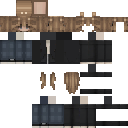
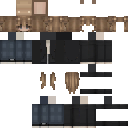
Resample back, head sides and head top from the new close-ups; ears on back corners
Claude-Session: https://claude.ai/code/session_01E8KVnok6Fx7faRrVpDBB9K

diff --git a/minecraft-skin/make_skin.py b/minecraft-skin/make_skin.py
@@ -4,6 +4,8 @@
 from PIL import Image
 HI = Image.open("ref/front_close.png").convert("RGB"); KH = HI.width/924      # coords below are in a 924px-wide frame
 LO = Image.open("reference.png").convert("RGB")
+BK = Image.open("ref/back_close.png").convert("RGB")                          # sharp close-up of the back view
+QH = Image.open("ref/head_quarter.png").convert("RGB")                        # sharp close-up of the head, 3/4 from above
 GAIN = 1.15
 
 def bright(c): return tuple(min(255, int(v*GAIN+0.5)) for v in c)
@@ -18,17 +20,26 @@ def cell(img, x0, y0, x1, y1):                      # median colour of the inner
 def grid(img, k, x0, y0, x1, y1, w, h):             # sample a w*h texel grid from a rectangle
     return {(i, j): cell(img, k*(x0+i*(x1-x0)/w), k*(y0+j*(y1-y0)/h), k*(x0+(i+1)*(x1-x0)/w), k*(y0+(j+1)*(y1-y0)/h))
             for j in range(h) for i in range(w)}
-def quad(ox, oy, z, tl, tr, br, bl, w, h):          # sample a perspective quad from the overview
-    out = {}
+def quad(img, tl, tr, br, bl, w, h, r=5):           # sample a perspective quad (924px-frame coords)
+    k = img.width/924; out = {}
     for j in range(h):
         for i in range(w):
             a, b = (i+.5)/w, (j+.5)/h
             X = (1-a)*(1-b)*tl[0] + a*(1-b)*tr[0] + a*b*br[0] + (1-a)*b*bl[0]
             Y = (1-a)*(1-b)*tl[1] + a*(1-b)*tr[1] + a*b*br[1] + (1-a)*b*bl[1]
-            out[i, j] = cell(LO, ox+X/z-2, oy+Y/z-2, ox+X/z+2, oy+Y/z+2)
+            out[i, j] = cell(img, k*(X-r), k*(Y-r), k*(X+r), k*(Y+r))
     return out
 def front(x0, y0, x1, y1, w, h): return grid(HI, KH, x0, y0, x1, y1, w, h)
-def back(x0, y0, x1, y1, w, h):  return grid(LO, 0.25, x0+2800, y0+3760, x1+2800, y1+3760, w, h)   # crop origin (700,940), zoom 4
+def back(x0, y0, x1, y1, w, h):  return grid(BK, BK.width/924, x0, y0, x1, y1, w, h)
+def fill_rows(g):                                   # replace non-hair / shadow-gap texels by the nearest hair texel in the row
+    out = {}
+    ok = lambda c: is_hair(c) and c[0] >= 72
+    w = max(i for i, _ in g)+1
+    for (i, j), c in g.items():
+        if ok(c): out[i, j] = c; continue
+        near = sorted((abs(i-ii), ii) for ii in range(w) if ok(g[ii, j]))
+        out[i, j] = g[near[0][1], j] if near else (121, 95, 72)
+    return out
 def chunky(g, n=2):                                 # 8x8 blocks -> 16x16 texels
     return {(i*n+a, j*n+b): c for (i, j), c in g.items() for a in range(n) for b in range(n)}
 
@@ -59,33 +70,32 @@ def build(slim=True):
         if not is_hair(face[i, 15]) and face[i, 15][0] - face[i, 15][2] < 25: face[i, 15] = face[i, 14]
     put(8, 8, face)                                                        # face + hair (base layer)
     lit = lambda c: is_hair(c) and c[0] >= 78                              # dark blocks are shadowed hair, not hat
-    put(40, 8, face, keep=lambda i, j, c: lit(c) and lit(_hat8[i//2, j//2]) and not (j == 0 and 4 <= i <= 11))
-    bk = {k: snap(c) for k, c in back(253, 150, 755, 665, 16, 16).items()}
-    put(24, 8, bk); put(56, 8, bk, keep=lambda i, j, c: j > 0 and (j < 6 or i < 4 or i > 11))
-    side = quad(390, 940, 3, (130, 95), (355, 150), (355, 470), (135, 415), 16, 16)
-    def rowmed(j):
-        v = sorted(c for (i, jj), c in side.items() if jj == j and c[0] >= 85 and c[0] > c[2]+8)
-        return v[len(v)//2] if v else (121, 95, 72)
-    side = {(i, j): snap(c if (c[0] >= 85 and c[0] > c[2]+8) else rowmed(j)) for (i, j), c in side.items()}
-    ear = lambda i, j, c: j > 0 or i >= 12
+    put(40, 8, face, keep=lambda i, j, c: lit(c) and lit(_hat8[i//2, j//2]))
+    bk = fill_rows(back(262, 374, 694, 806, 16, 16))
+    put(24, 8, bk)
+    put(56, 8, bk, keep=lambda i, j, c: (j < 6 or i < 4 or i > 11) and not (j == 0 and 4 <= i <= 11))
+    side = fill_rows(quad(QH, (112, 925), (345, 958), (345, 1425), (115, 1398), 16, 16))
+    ear = lambda i, j, c: j > 0 or i < 4                                   # top edge stays only where the ear is (back)
     put(0, 8, side); put(32, 8, side, keep=ear); put(16, 8, side, flip=True); put(48, 8, side, keep=ear, flip=True)
-    TONE = {'D': (88, 68, 52), 'M': (121, 95, 72), 'm': (133, 105, 80), 'L': (144, 115, 88),
-            'H': (168, 141, 113), 'W': (200, 180, 155)}
-    ROWS = "DMMmmLLHHLLmLmMM"                                              # back -> front
-    def top_c(i, j):
-        t = ROWS[j]
-        if i in (0, 15): t = {'H': 'L', 'L': 'm', 'm': 'M', 'M': 'D', 'D': 'D'}[t]
-        if j in (12, 13) and i in (5, 6, 9, 10): t = 'W'
-        return TONE[t]
-    top = {(i, j): top_c(i, j) for i in range(16) for j in range(16)}
-    put(8, 0, top)
-    put(40, 0, top, keep=lambda i, j, c: i//2 in (0, 1, 6, 7) and j//2 in (6, 7),   # ears: closed corner caps
-        fn=lambda i, j, c: TONE['H'] if j in (13, 14) and i in (1, 2, 13, 14) else TONE['L'])
+    top = quad(QH, (112, 925), (570, 895), (810, 925), (345, 958), 16, 16)
+    med = sorted(c for c in top.values() if is_hair(c) and c[0] >= 90); med = med[len(med)//2]
+    top = {(i, j): (c if (is_hair(c) or c[0] > 150) and c[0] >= 80 and c[0] > c[2]+10 else med) for (i, j), c in top.items()}
+    for j in range(16):                                                    # hair runs sideways: one tone per row
+        row = sorted(top[i, j] for i in range(16)); rm = row[len(row)//2]
+        for i in range(16):
+            top[i, j] = tuple(int(v*0.9) for v in rm) if i in (0, 15) else rm
+    for i in (2, 3, 12, 13):                                               # the two small highlights near the front
+        for j in (11, 12): top[i, j] = (200, 180, 155)
+    isear = lambda i, j: i//2 in (0, 1, 6, 7) and j//2 in (0, 1)
+    put(8, 0, top, fn=lambda i, j, c: med if isear(i, j) else c)
+    earc = quad(QH, (150, 885), (160, 885), (160, 892), (150, 892), 1, 1)[0, 0]
+    put(40, 0, top, keep=lambda i, j, c: isear(i, j),                      # ears: caps on the back corners, closed by the hair walls
+        fn=lambda i, j, c: earc)
     chin = front(300, 660, 590, 700, 16, 16)
     put(16, 0, chin, fn=lambda i, j, c: c if 2 <= i <= 13 and 2 <= j <= 13 else (95, 74, 58))
 
     # ---------------- body ----------------
-    bf = dict(_bf); bb = back(270, 650, 750, 1370, 16, 24)
+    bf = dict(_bf); bb = back(270, 770, 680, 1398, 16, 24)
     for j in range(24):                                                    # thin zipper sits between two texels
         z = cell(HI, KH*435, KH*(705+j*640/24), KH*445, KH*(705+(j+1)*640/24))
         if z[0] > 95 and abs(z[0]-z[2]) < 14 and j >= 13: bf[7, j] = z
@@ -101,7 +111,7 @@ def build(slim=True):
         return {k for k in h if nb(*k) >= 2 or k[1] == 0}
     hf, hb = strand(bf), strand(bb)
     put(20, 20, bf, fn=under); put(32, 20, bb, fn=under)
-    put(20, 36, bf, keep=lambda i, j, c: (i, j) in hf); put(32, 36, bb, keep=lambda i, j, c: (i, j) in hb, fn=lambda i, j, c: snap(c))
+    put(20, 36, bf, keep=lambda i, j, c: (i, j) in hf); put(32, 36, bb, keep=lambda i, j, c: (i, j) in hb)
     HOOD = bf[0, 20]
     solid(16, 20, 4, 12, bright(HOOD)); solid(28, 20, 4, 12, bright(HOOD))
     solid(20, 16, 8, 4, (48, 49, 52)); solid(28, 16, 8, 4, (26, 26, 28))
@@ -117,15 +127,15 @@ def build(slim=True):
             put(bx+4+aw, by+4, wide, keep, fn=nohair); put(bx+8+aw, by+4, bk, keep, fn=nohair)
             solid(bx+4, by, aw, 4, (50, 51, 54))
         solid(x+4+aw, y, aw, 4, bright(fr[2, 23]))
-    arm(40, 16, 40, 32, front(97, 705, 233, 1320, 2*aw, 24), back(752, 625, 903, 1345, 2*aw, 24))
-    arm(32, 48, 48, 48, front(652, 705, 798, 1320, 2*aw, 24), back(102, 625, 268, 1345, 2*aw, 24))
+    arm(40, 16, 40, 32, front(97, 705, 233, 1320, 2*aw, 24), back(687, 750, 806, 1365, 2*aw, 24))
+    arm(32, 48, 48, 48, front(652, 705, 798, 1320, 2*aw, 24), back(142, 750, 263, 1365, 2*aw, 24))
 
     # ---------------- legs ----------------
     def leg(x, y, fr, bk):
         put(x+4, y+4, fr); put(x+12, y+4, bk); put(x, y+4, bk); put(x+8, y+4, bk, flip=True)
         solid(x+4, y, 4, 4, bright(fr[3, 1])); solid(x+8, y, 4, 4, bright(fr[3, 23]))
-    leg(0, 16, front(240, 1345, 440, 1920, 8, 24), back(505, 1375, 740, 2030, 8, 24))
-    leg(16, 48, front(445, 1345, 650, 1920, 8, 24), back(270, 1375, 505, 2030, 8, 24))
+    leg(0, 16, front(240, 1345, 440, 1920, 8, 24), back(478, 1398, 670, 1945, 8, 24))
+    leg(16, 48, front(445, 1345, 650, 1920, 8, 24), back(282, 1398, 474, 1945, 8, 24))
     return img
 
 def v2(img):
@@ -154,10 +164,9 @@ def v2(img):
     GREY, PINK = (146, 136, 128, 255), (244, 228, 226, 255)                        # cat ears: grey fur, light inside
     for ex in (0, 12):
         for i in range(4):
-            for j in range(12, 16): px[80+ex+i, j] = PINK if (i in (1, 2) and j in (13, 14)) else GREY
-            for j in (0, 1): px[80+ex+i, 16+j] = PINK if (i in (1, 2) and j == 1) else GREY
-    for i in range(4):
-        for j in (0, 1): px[64+12+i, 16+j] = GREY; px[96+i, 16+j] = GREY
+            for j in range(4): px[80+ex+i, j] = PINK if (i in (1, 2) and j in (1, 2)) else GREY
+            px[112+ex+i, 16] = GREY                                                # back wall of the ear
+    for i in range(4): px[64+i, 16] = GREY; px[96+12+i, 16] = GREY                 # side walls
     return img
 
 if __name__ == "__main__":
